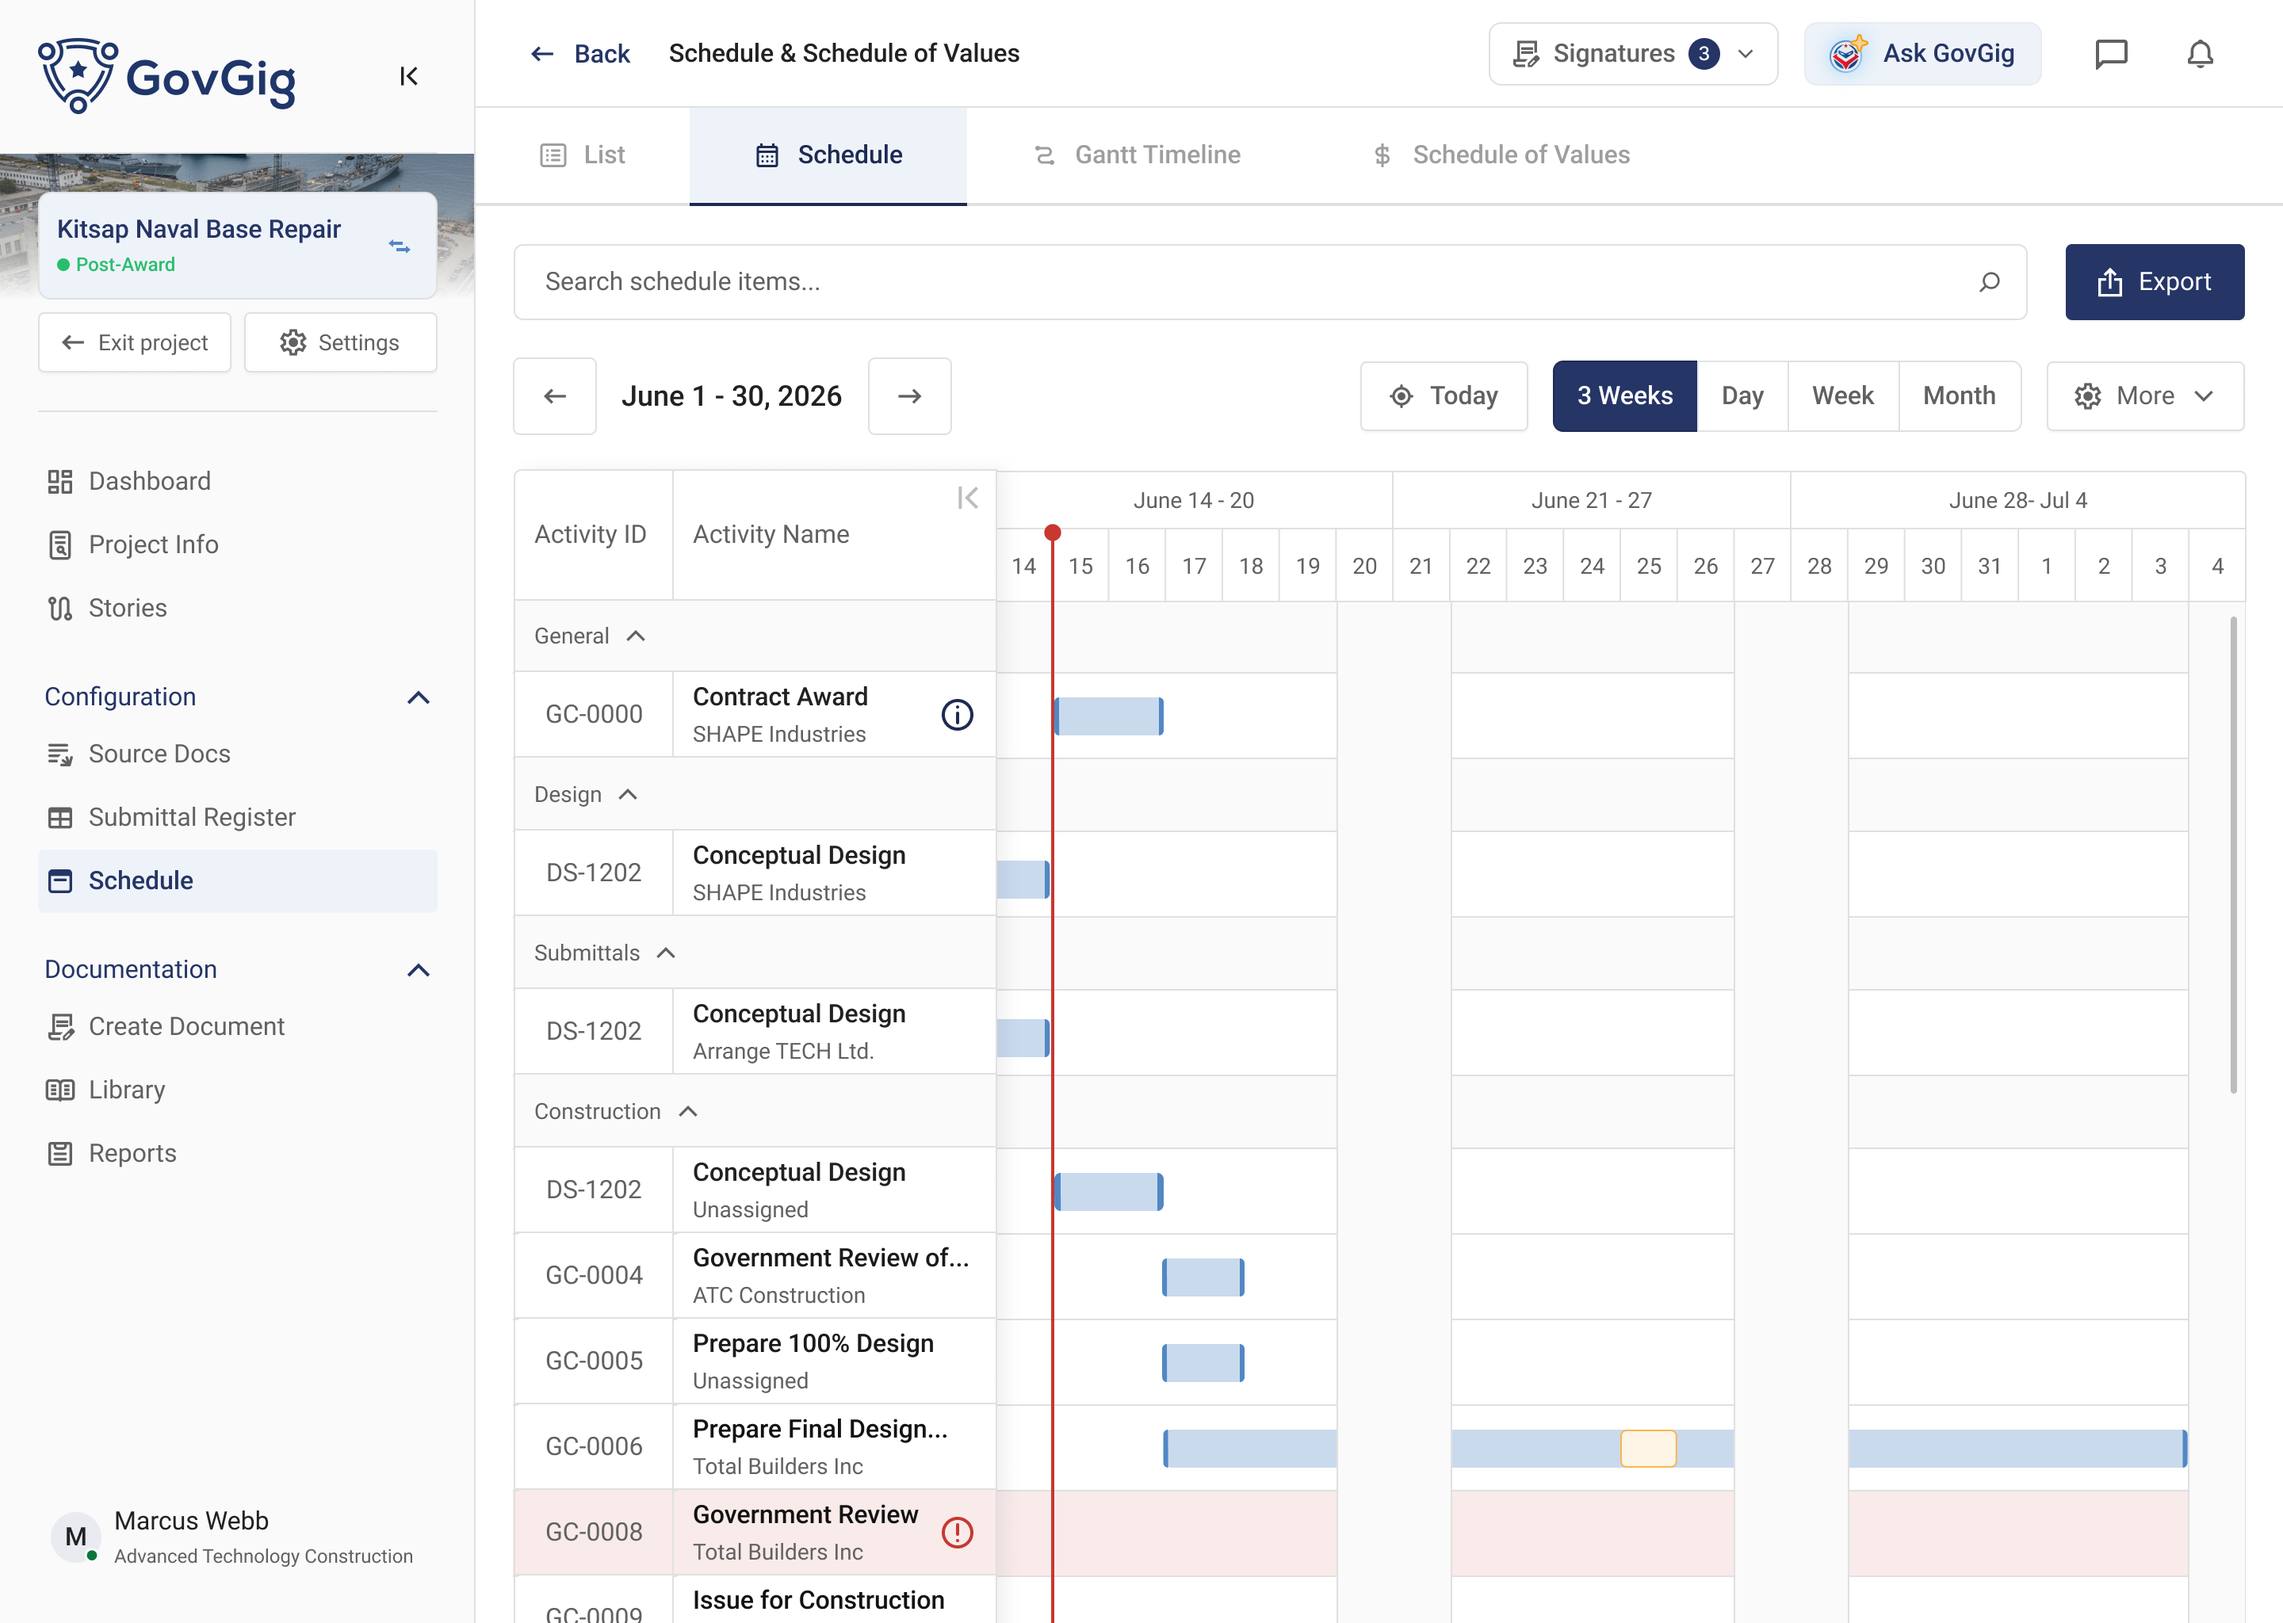
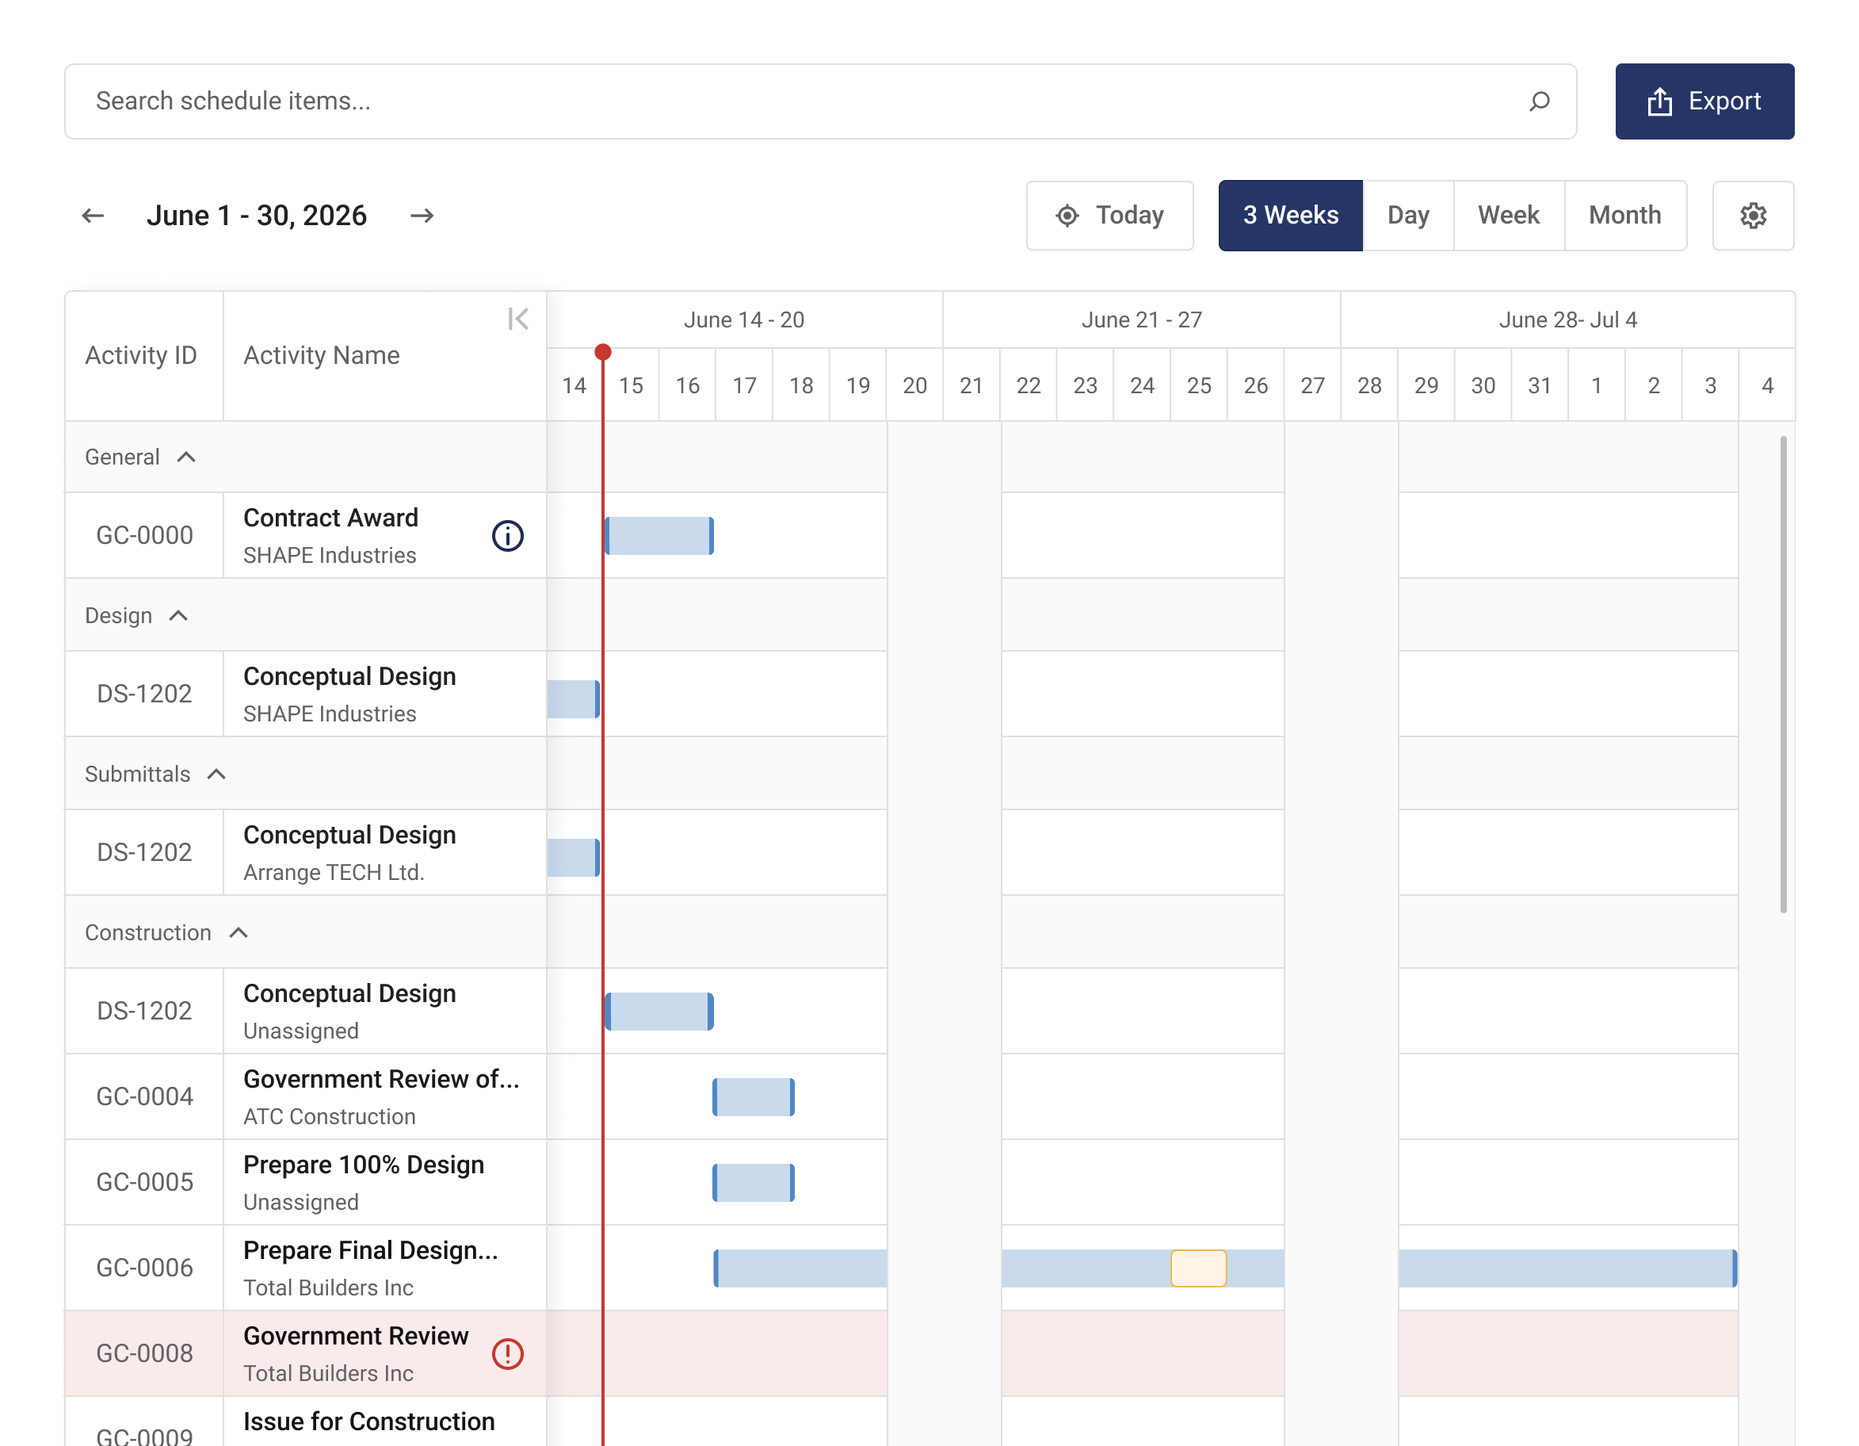
Use the cropped schedule screenshot on the GovGig page

diff --git a/govgig.html b/govgig.html
@@ -87,8 +87,8 @@
 
     <section class="features">
       <figure class="feature">
-        <button type="button" class="zoom" data-full="assets/govgig/feature-schedule.png" aria-label="Enlarge: Schedule view with activity list and three-week Gantt timeline">
-          <img class="contain-full" src="assets/govgig/page/feature-schedule.jpg" alt="Schedule view with activity list and three-week Gantt timeline">
+        <button type="button" class="zoom" data-full="assets/govgig/feature-schedule.png" aria-label="Enlarge: Schedule with grouped activities and a three-week Gantt timeline">
+          <img class="contain-full" src="assets/govgig/page/feature-schedule.png" alt="Schedule with grouped activities and a three-week Gantt timeline">
         </button>
         <figcaption>Feature-rich scheduling tailored for users from CEOs to Carpenters</figcaption>
       </figure>
